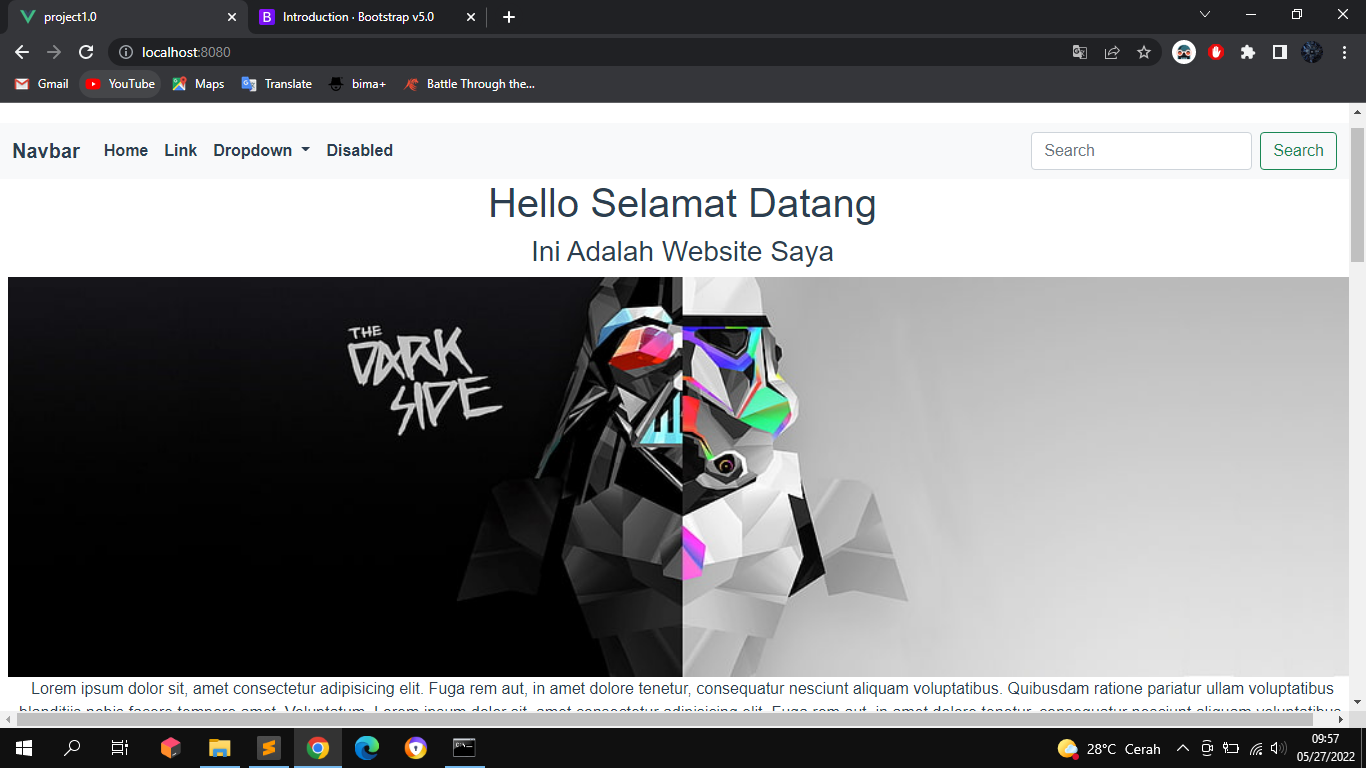
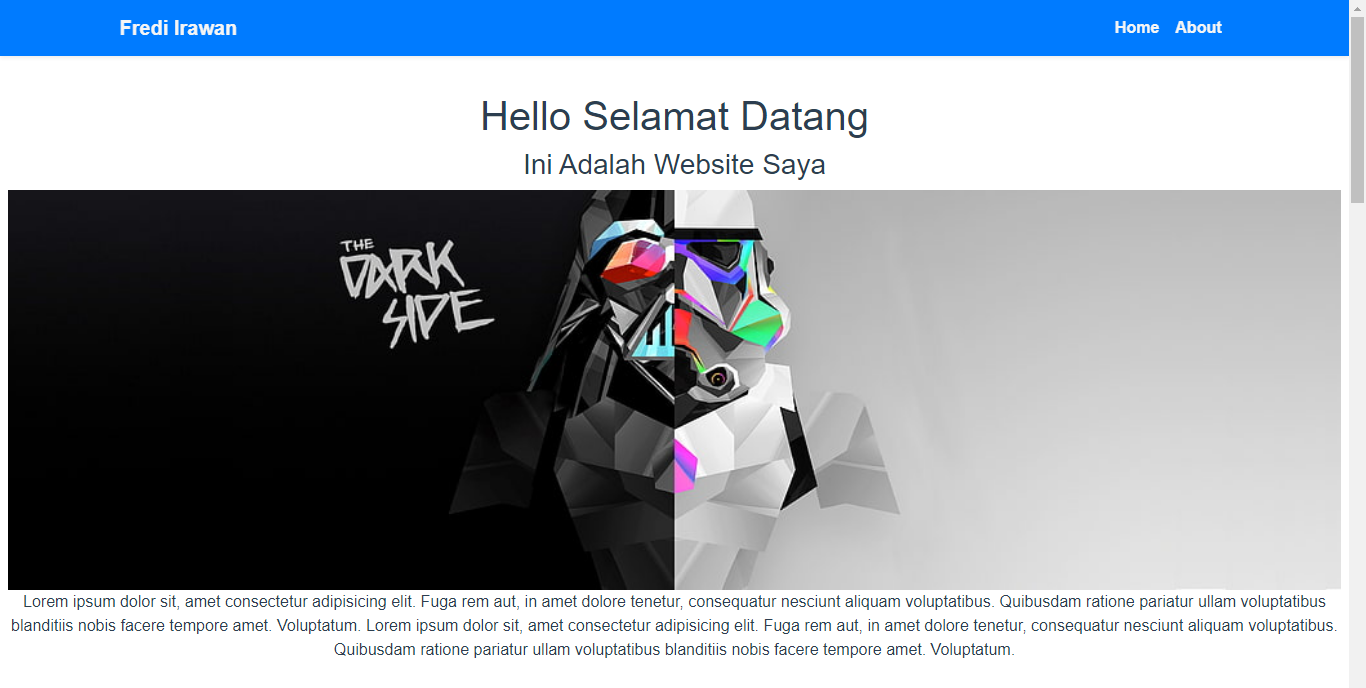
add project

diff --git a/index.html b/index.html
@@ -87,18 +87,44 @@
             <h2>My Projects</h2>
           </div>
         </div>
-        <div class="row" width="250">
-          <div class="col-md-6 mb-3">
+        <div class="row justify-content-center" width="250">
+          <div class="col-md-4 mb-3">
             <div class="card">
               <img src="assets/img/projects.png" class="card-img-top" alt="Projects1">
+              <div class="card-body">
+                <h5>First Project</h5>
+                <p class="card-text">My first project using vuejs and bootstrap</p>
+                <a class="btn btn-primary" href="https://first-projects7811.netlify.app/" role="button">Click To See</a>
+              </div>
+            </div>
+          </div>
+           <div class="col-md-4 mb-3">
+            <div class="card">
+              <img src="https://c4.wallpaperflare.com/wallpaper/695/331/660/digital-art-artwork-women-cityscape-wallpaper-thumb.jpg" class="card-img-top" alt="Projects2">
               <div class="card-body">
                 <p class="card-text">Some quick example text to build on the card title and make up the bulk of the card's content.</p>
               </div>
             </div>
           </div>
-           <div class="col-md-6 mb-3">
+          <div class="col-md-4 mb-3">
             <div class="card">
-              <img src="assets/img/projects.png" class="card-img-top" alt="Projects2">
+              <img src="https://c4.wallpaperflare.com/wallpaper/658/800/994/simple-simple-background-minimalism-black-background-wallpaper-thumb.jpg" class="card-img-top" alt="Projects2">
+              <div class="card-body">
+                <p class="card-text">Some quick example text to build on the card title and make up the bulk of the card's content.</p>
+              </div>
+            </div>
+          </div>
+          <div class="col-md-4 mb-3">
+            <div class="card">
+              <img src="https://c4.wallpaperflare.com/wallpaper/800/831/598/digital-art-neon-mountains-lake-wallpaper-thumb.jpg" class="card-img-top" alt="Projects2">
+              <div class="card-body">
+                <p class="card-text">Some quick example text to build on the card title and make up the bulk of the card's content.</p>
+              </div>
+            </div>
+          </div>
+           <div class="col-md-4 mb-3">
+            <div class="card">
+              <img src="https://c4.wallpaperflare.com/wallpaper/268/96/863/anime-anime-girls-original-characters-short-hair-wallpaper-thumb.jpg" class="card-img-top" alt="Projects2">
               <div class="card-body">
                 <p class="card-text">Some quick example text to build on the card title and make up the bulk of the card's content.</p>
               </div>
@@ -123,7 +149,7 @@
               <form>
                 <div class="mb-3">
                   <label for="nama" class="form-label">Nama Lengkap</label>
-                  <input type="email" class="form-control" id="nama" aria-describedby="name">
+                  <input type="nama" class="form-control" id="nama" aria-describedby="name">
                 </div>
                 <div class="mb-3">
                   <label for="Email" class="form-label">Email</label>
